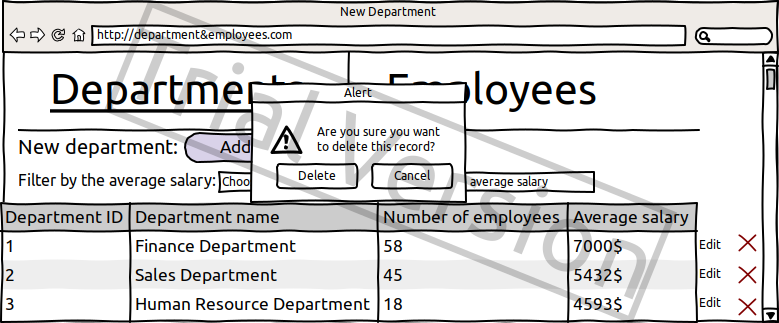
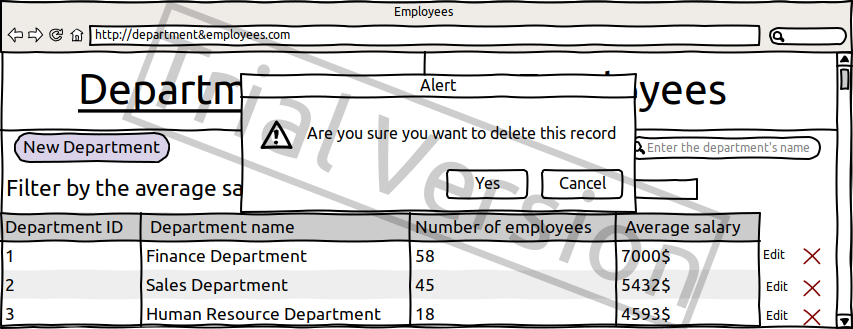
and more changes to the srs

diff --git a/documentation/Specification.md b/documentation/Specification.md
@@ -13,6 +13,9 @@ Application should provide:
 -   Updating the list of employees (adding, editing, removing);
 -   Possibility to search for employees based on their birthday or if their were born in a specific period;
 -   Filtering departments by the average salary;
+-   Search by username;
+-   Search by department name;
+-   Filter user by department name
 
 ## **Departments**
 
@@ -40,7 +43,10 @@ Aggregate function: Average salary = SUM(Emloyees.employee\_salary) / Number of 
 
 Filtering by the average salary:
 
--   User chooses a comparison operator (&lt;, &gt;, =, &lt;=, &gt;=), enters the average salary and the app filter the table;
+-   User chooses a comparison operator (&lt;, &gt;, =, &lt;=, &gt;=), enters the average salary and the app filters the table;
+
+Searching by the department's name:
+-   User enters the department's name into the search field, clicks on the search sign nad then the app displays the department with the correspoding name;
 
 ### **1.2 Add Department**
 
@@ -54,6 +60,10 @@ Filtering by the average salary:
 -   If an error occurs, then the error message is displayed;
 -   If the record is added successfully, then User gets redirected to the Departments page;
 
+![Image of the add department page](./mockup_imgs/add_department_page.png)
+
+Pic 1.2 Add department
+
 ***Cancel operation scenario:***
 
 -   User clicks the “Add” button on the Departments page;
@@ -61,10 +71,6 @@ Filtering by the average salary:
 -   User enters department data and clicks “Cancel” button;
 -   Data doesn’t save to the database and the user is redirected to the Departments page;
 -   If the user selects Departments or Employees from the menu, then the data won’t be saved in the database and the corresponding page will open;
-
-![Image of the add department page](./mockup_imgs/edit_department_page.png)
-
-Pic 1.2 Add department
 
 When adding a department, the following details are entered:
 
@@ -82,6 +88,10 @@ When adding a department, the following details are entered:
 -   If error occurs, the error message is displayed;
 -   If the change is saved successfully, then the use is redirected to the departments page;
 
+![Image of the edit department page](./mockup_imgs/edit_department_page.png)
+
+Pic 1.3 Edit department
+
 Cancel operation scenario:
 
 -   User clicks the “Edit” button on the Departments page;
@@ -89,10 +99,6 @@ Cancel operation scenario:
 -   User edits the department’s data and clicks “Cancel”;
 -   Data doesn’t save to the database and the user is redirected back to the Departments page;
 -   If the user selects Departments or Employees from the menu, then the data won’t be saved in the database and the corresponding page will open;
-
-![Image of the edit department page](./mockup_imgs/edit_department_page.png)
-
-Pic 1.3 Edit department
 
 When editing a department, the following data can be changed:
 
@@ -103,13 +109,15 @@ When editing a department, the following data can be changed:
 ***Main scenario:***
 
 -   User clicks the “Remove” button in the corresponding line;
--   Then the prompt appears asking the use to confirm removal;
+-   Then the prompt appears asking the user to confirm removal;
 -   The user confirms the removal;
--   The recorded is deleted from the database;
+-   The record is deleted from the database;
 -   If error occurs, the error message is displayed;
 -   If record removal went successfully, then the Departments page is displayed without the deleted record;
+-   If user tries to delete a department that has employees then he is asked wether he wants to delete all the employees if not then he is not allowed to delete the department;
 
 ![Image of the delete department prompt](./mockup_imgs/delete_department_prompt.png)
+![Image of the delete department prompt](./mockup_imgs/delete_department_second_prompt.png)
 
 Pic 1.4 Remove department
 
@@ -162,6 +170,10 @@ Filtering by the period of birthdays:
 -   If an error occurs, then the error message is displayed;
 -   If the record is added successfully, then User gets redirected to the Employees page;
 
+![Image of the add employee page](./mockup_imgs/add_employee_page.png)
+
+Pic 1.2 Add employee
+
 ***Cancel operation scenario:***
 
 -   User clicks the “Add” button on the Employees page;
@@ -170,9 +182,7 @@ Filtering by the period of birthdays:
 -   Data doesn’t save to the database and the user is redirected to the Employees page;
 -   If the user selects Departments or Employees from the menu, then the data won’t be saved in the database and the corresponding page will open;
 
-![Image of the add employee page](./mockup_imgs/add_employee_page.png)
 
-Pic 1.2 Add employee
 
 When adding a employee, the following details are entered:
 
@@ -193,6 +203,10 @@ When adding a employee, the following details are entered:
 -   If error occurs, the error message is displayed;
 -   If the change is saved successfully, then the use is redirected to the employees page;
 
+![Image of the edit employee page](./mockup_imgs/edit_employee_page.png)
+
+Pic 1.3 Edit employee
+
 Cancel operation scenario:
 
 -   User clicks the “Edit” button on the Employees page;
@@ -200,10 +214,6 @@ Cancel operation scenario:
 -   User edits the Employee's data and clicks “Cancel”;
 -   Data doesn’t save to the database and the user is redirected back to the Employees page;
 -   If the user selects Departments or Employees from the menu, then the data won’t be saved in the database and the corresponding page will open;
-
-![Image of the edit employee page](./mockup_imgs/edit_employee_page.png)
-
-Pic 1.3 Edit employee
 
 When editing an employee, the following data can be changed:
 
